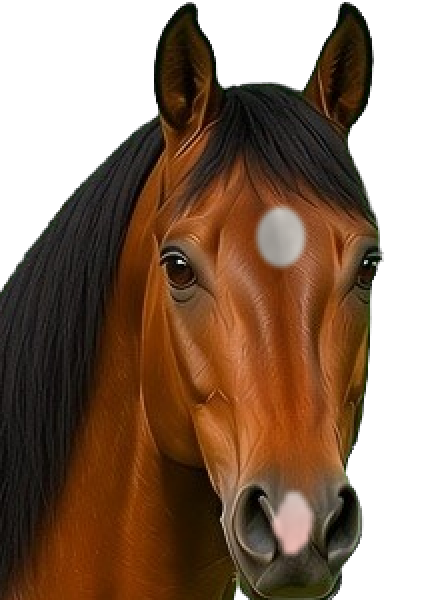
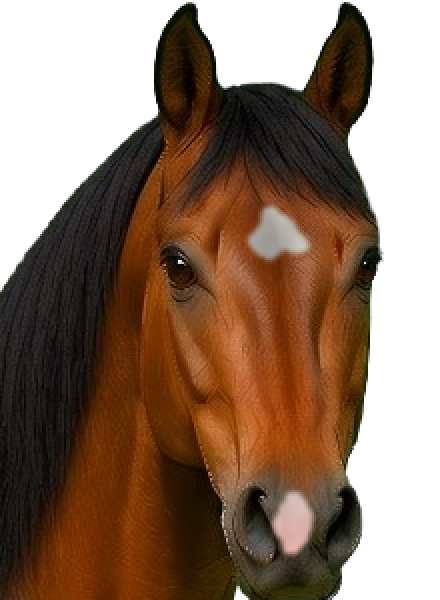
🎨 design: warm Paint Horse markings and roughen the star

diff --git a/apps/editor/src/app/preview/mix-pie-over-dest.ts b/apps/editor/src/app/preview/mix-pie-over-dest.ts
@@ -12,7 +12,10 @@ const STOCK_WHITE_B = 221;
 const STOCK_WHITE_L = 234;
 
 const PIE_MATCH = 0.88;
-const STOCK_MATCH = 0.28;
+/** Pull hard toward stocking cream so bay-baked gray hair does not survive. */
+const STOCK_MATCH = 0.65;
+/** Floor for paint-horse whites. Bay form shading bottoms out near gray 110. */
+const STOCK_L_FLOOR = 208;
 const SHADE_SPAN_HI = 10;
 const SHADE_SPAN_LO = 30;
 const SHADE_SOFT = 50;
@@ -89,7 +92,10 @@ export function liftPieWhite(
       : [PIE_WHITE_R, PIE_WHITE_G, PIE_WHITE_B];
   const delta = L - mid;
   const span = delta >= 0 ? SHADE_SPAN_HI : SHADE_SPAN_LO;
-  const targetL = mid + Math.tanh(delta / SHADE_SOFT) * span;
+  let targetL = mid + Math.tanh(delta / SHADE_SOFT) * span;
+  if (profile === 'stocking') {
+    targetL = Math.max(targetL, STOCK_L_FLOOR);
+  }
 
   const scale = L > 1e-6 ? targetL / L : 1;
   let nr = r * scale;

diff --git a/packages/core/src/lib/composition/mix-pie-over-dest.ts b/packages/core/src/lib/composition/mix-pie-over-dest.ts
@@ -21,7 +21,10 @@ const STOCK_WHITE_L = 234;
 
 /** Chroma pull toward pie clay. */
 const PIE_MATCH = 0.88;
-const STOCK_MATCH = 0.28;
+/** Pull hard toward stocking cream so bay-baked gray hair does not survive. */
+const STOCK_MATCH = 0.65;
+/** Floor for paint-horse whites. Bay form shading bottoms out near gray 110. */
+const STOCK_L_FLOOR = 208;
 
 export type WhiteMixProfile = 'clay' | 'stocking';
 
@@ -114,7 +117,10 @@ export function liftPieWhite(
       : [PIE_WHITE_R, PIE_WHITE_G, PIE_WHITE_B];
   const delta = L - mid;
   const span = delta >= 0 ? SHADE_SPAN_HI : SHADE_SPAN_LO;
-  const targetL = mid + Math.tanh(delta / SHADE_SOFT) * span;
+  let targetL = mid + Math.tanh(delta / SHADE_SOFT) * span;
+  if (profile === 'stocking') {
+    targetL = Math.max(targetL, STOCK_L_FLOOR);
+  }
 
   const scale = L > 1e-6 ? targetL / L : 1;
   let nr = r * scale;

diff --git a/packages/core/src/lib/composition/mix-pie-over-dest.spec.ts b/packages/core/src/lib/composition/mix-pie-over-dest.spec.ts
@@ -86,6 +86,9 @@ describe('mixPieOverDest', () => {
     const clay = liftPieWhite(236, 230, 222, 'clay');
     expect(luma(...stocking)).toBeGreaterThan(luma(...clay) + 20);
     expect(stocking[0]).toBeGreaterThanOrEqual(240);
+    const bakedGray = liftPieWhite(110, 106, 102, 'stocking');
+    expect(luma(...bakedGray)).toBeGreaterThan(190);
+    expect(bakedGray[0] - bakedGray[2]).toBeGreaterThan(8);
     const dest = px(120, 64, 32, 255);
     const src = px(236, 230, 222, 255);
     mixPieOverDest(dest, src, 'stocking');

diff --git a/apps/editor/src/app/preview/preview.css b/apps/editor/src/app/preview/preview.css
@@ -44,10 +44,7 @@
   overflow: hidden;
   border: 1px solid var(--kx-border);
   border-radius: 0.75rem;
-  background:
-    linear-gradient(45deg, #1a2220 25%, transparent 25%) 0 0 / 16px 16px,
-    linear-gradient(-45deg, #1a2220 25%, transparent 25%) 0 0 / 16px 16px,
-    #121816;
+  background: #1a2220;
   box-shadow: 0 24px 60px rgb(0 0 0 / 35%);
   animation: stage-in 420ms ease both;
 }
